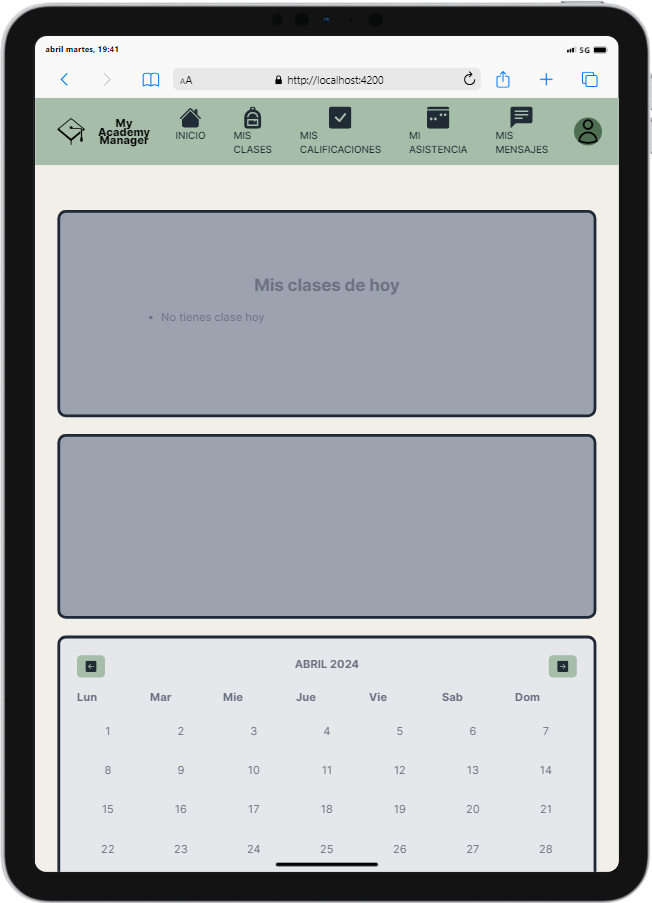
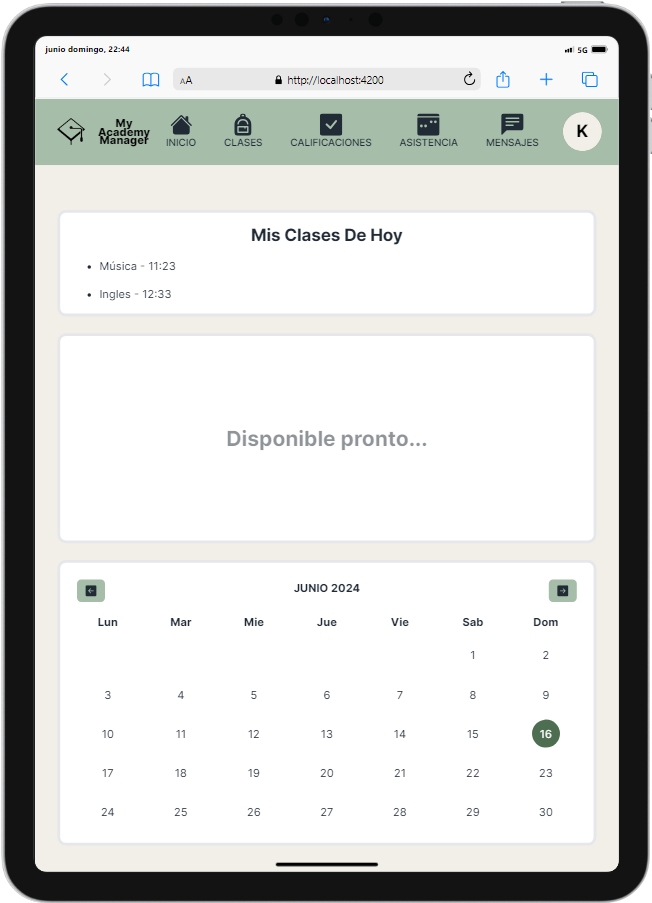
a

diff --git a/Frontend/src/app/landing/landing.component.html b/Frontend/src/app/landing/landing.component.html
@@ -97,7 +97,7 @@ class="relative pt-[120px] md:pt-[130px] lg:pt-[160px] bg-primary"
       >
         <div class="mt-16">
           <img
-            src="assets/images/hero/hero1.png"
+            src="assets/images/hero/hero2.png"
             alt="Imagen de la aplicacion MyAcademy Manager"
             class="max-w-full mx-auto rounded-t-xl rounded-tr-xl"
           />
